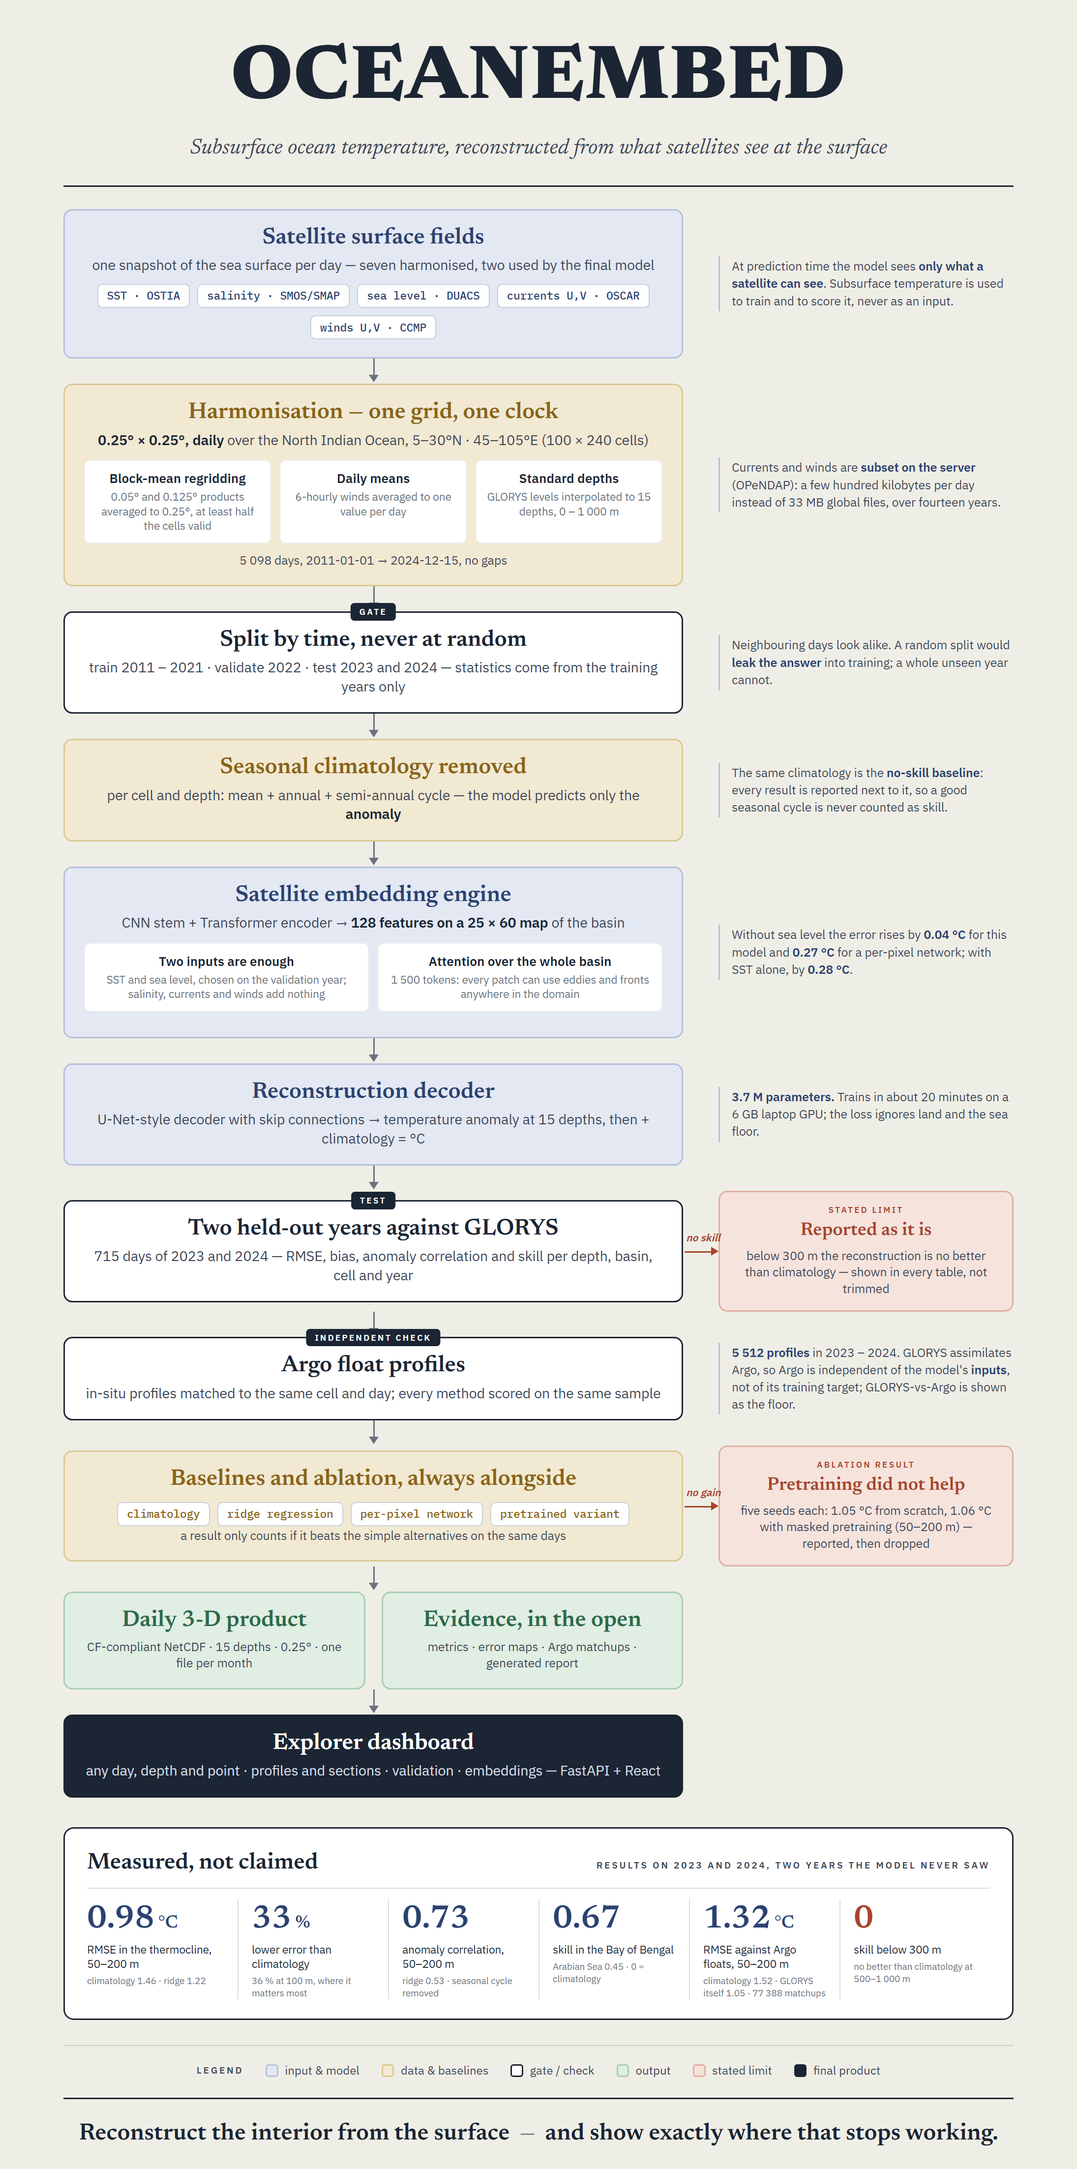
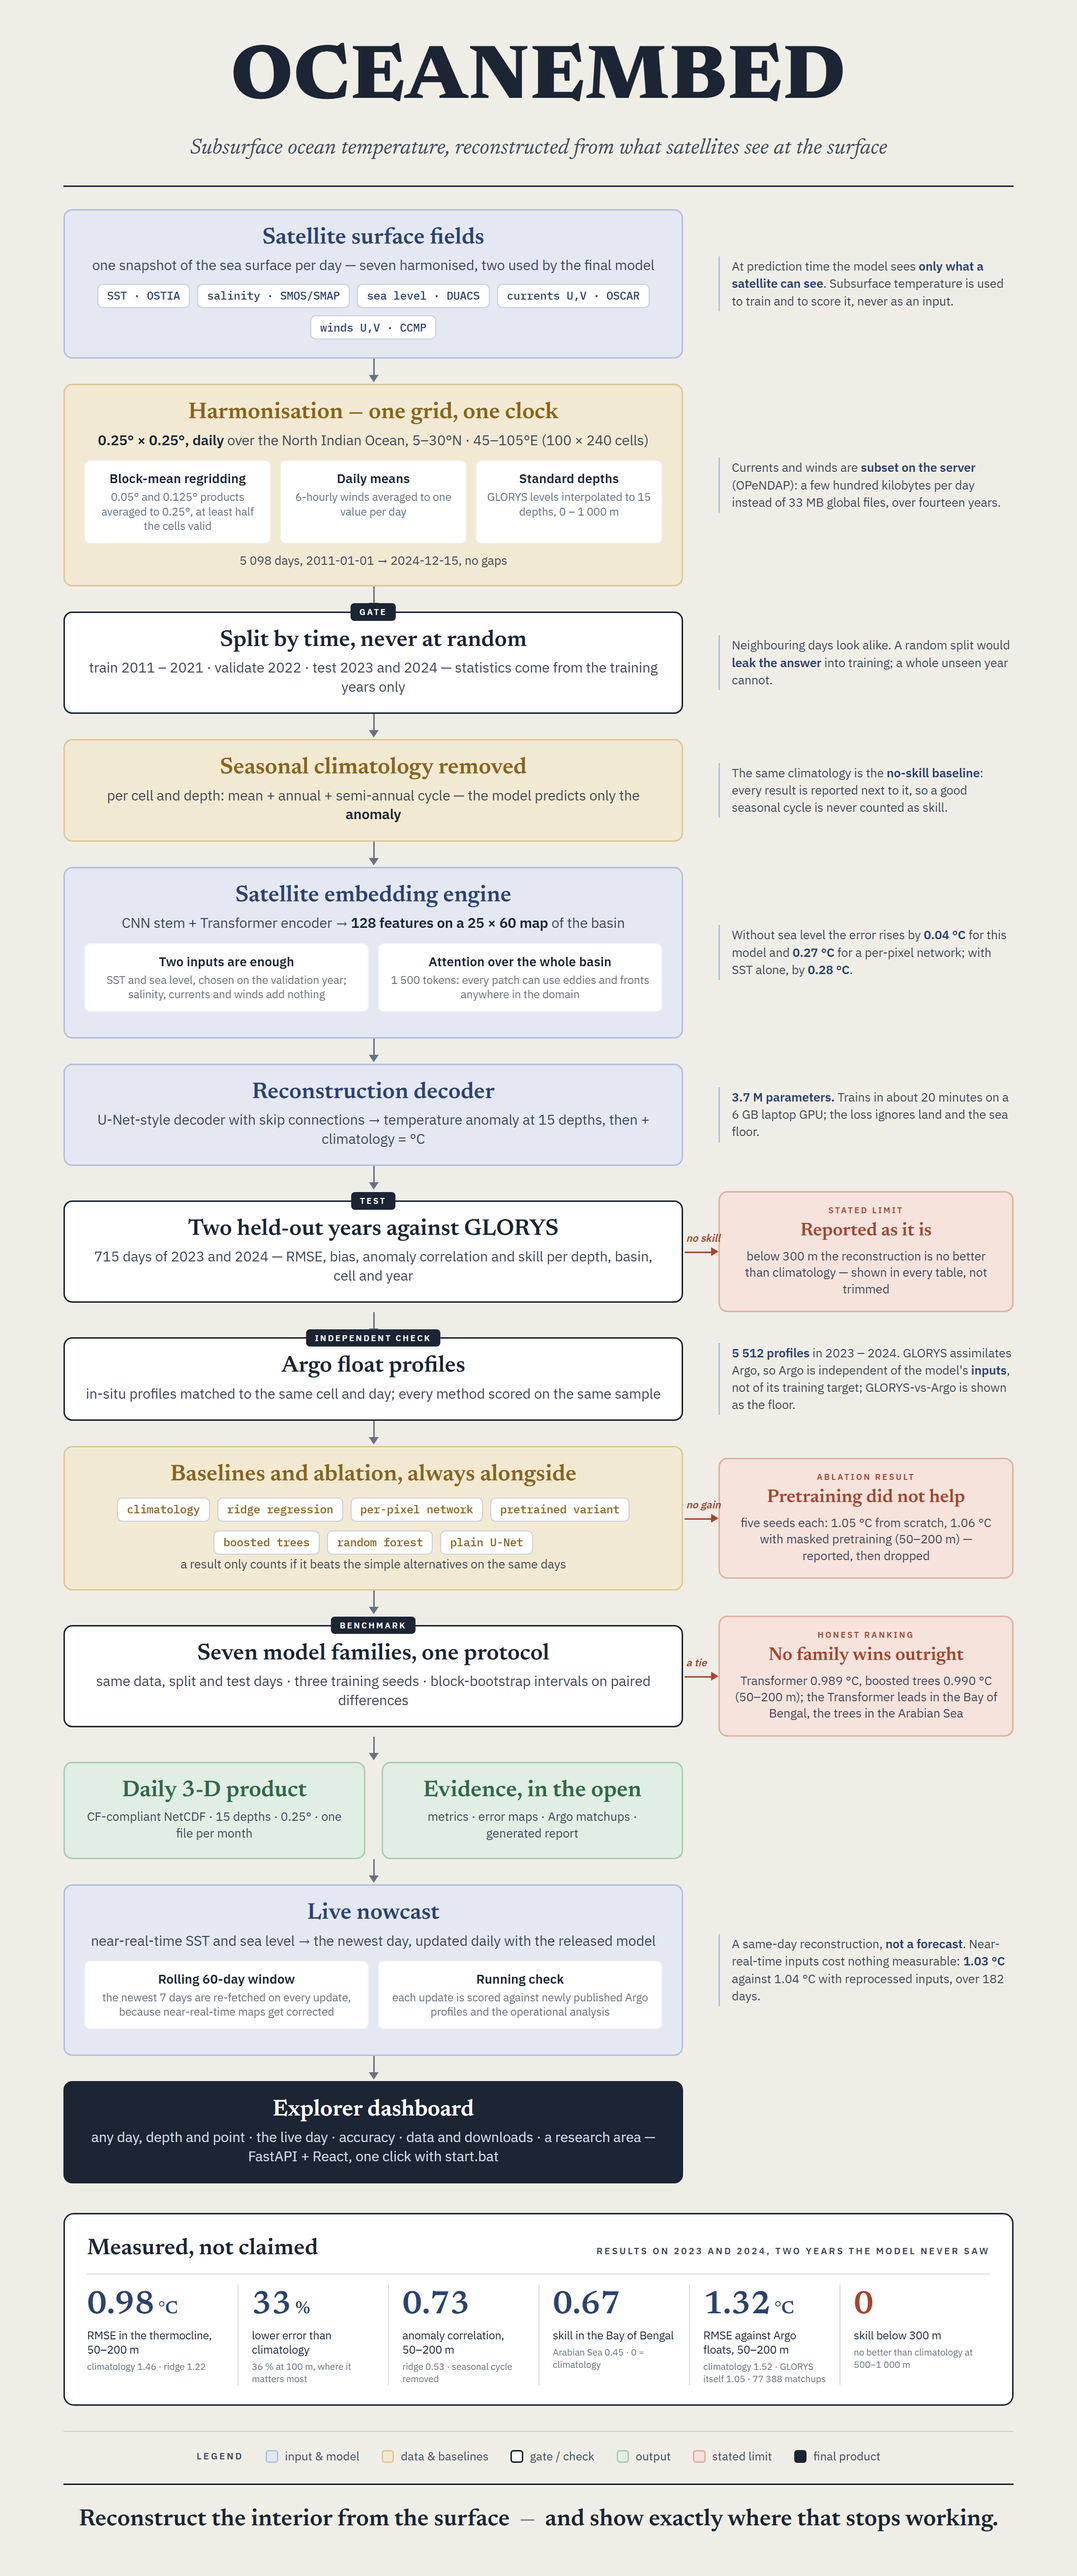
Add the model-family benchmark and the live nowcast to the pipeline flowchart

diff --git a/docs/flowchart/oceanembed-flowchart.html b/docs/flowchart/oceanembed-flowchart.html
@@ -211,6 +211,7 @@
   <div class="box tan">
     <h2>Baselines and ablation, always alongside</h2>
     <div class="chips"><span class="chip">climatology</span><span class="chip">ridge regression</span><span class="chip">per-pixel network</span><span class="chip">pretrained variant</span></div>
+    <div class="chips"><span class="chip">boosted trees</span><span class="chip">random forest</span><span class="chip">plain U-Net</span></div>
     <p class="small">a result only counts if it beats the simple alternatives on the same days</p>
   </div>
   <div class="stop">
@@ -218,6 +219,22 @@
     <div class="k">ABLATION RESULT</div>
     <h3>Pretraining did not help</h3>
     <p>five seeds each: 1.05 °C from scratch, 1.06 °C with masked pretraining (50–200 m) — reported, then dropped</p>
+  </div>
+</div>
+<div class="arrow"></div>
+
+<!-- 9b benchmark -->
+<div class="row">
+  <div class="box gate">
+    <span class="tag">BENCHMARK</span>
+    <h2>Seven model families, one protocol</h2>
+    <p>same data, split and test days · three training seeds · block-bootstrap intervals on paired differences</p>
+  </div>
+  <div class="stop">
+    <span class="lbl">a tie</span>
+    <div class="k">HONEST RANKING</div>
+    <h3>No family wins outright</h3>
+    <p>Transformer 0.989 &deg;C, boosted trees 0.990 &deg;C (50&ndash;200 m); the Transformer leads in the Bay of Bengal, the trees in the Arabian Sea</p>
   </div>
 </div>
 <div class="arrow"></div>
@@ -235,11 +252,25 @@
 </div>
 <div class="arrow"></div>
 
+<!-- 10b live -->
+<div class="row">
+  <div class="box blue">
+    <h2>Live nowcast</h2>
+    <p>near-real-time SST and sea level &rarr; the newest day, updated daily with the released model</p>
+    <div class="subs c2">
+      <div class="subbox"><b>Rolling 60-day window</b><span>the newest 7 days are re-fetched on every update, because near-real-time maps get corrected</span></div>
+      <div class="subbox"><b>Running check</b><span>each update is scored against newly published Argo profiles and the operational analysis</span></div>
+    </div>
+  </div>
+  <div class="note">A same-day reconstruction, <b>not a forecast</b>. Near-real-time inputs cost nothing measurable: <b>1.03 &deg;C</b> against 1.04 &deg;C with reprocessed inputs, over 182 days.</div>
+</div>
+<div class="arrow"></div>
+
 <!-- 11 dashboard -->
 <div class="row">
   <div class="box final">
     <h2>Explorer dashboard</h2>
-    <p>any day, depth and point · profiles and sections · validation · embeddings — FastAPI + React</p>
+    <p>any day, depth and point · the live day · accuracy · data and downloads · a research area — FastAPI + React, one click with start.bat</p>
   </div>
   <div></div>
 </div>
